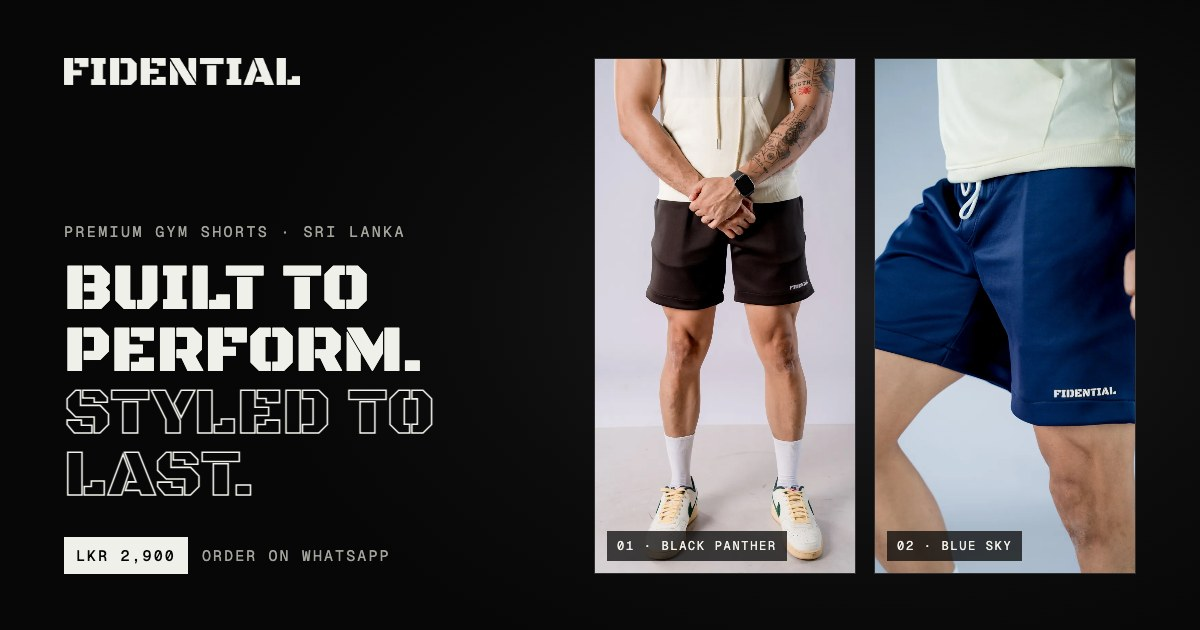
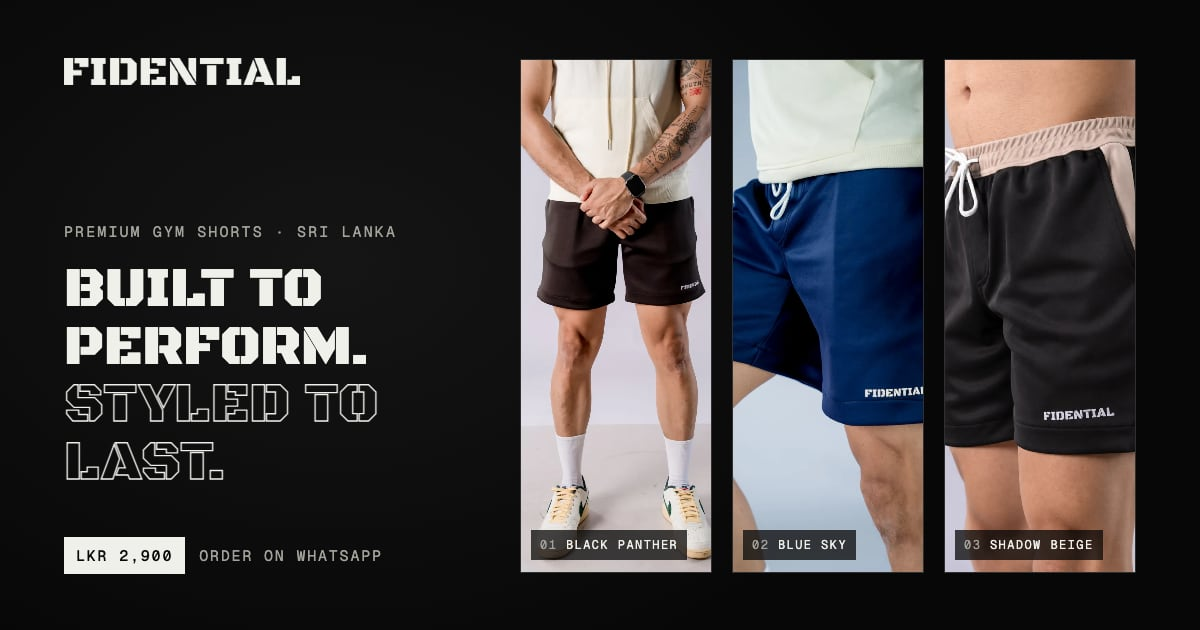
5th changes

diff --git a/index.html b/index.html
@@ -4,7 +4,7 @@
 <meta charset="utf-8">
 <meta name="viewport" content="width=device-width, initial-scale=1, viewport-fit=cover">
 <title>FIDENTIAL | Premium Gym Shorts &amp; Activewear in Sri Lanka</title>
-<meta name="description" content="Premium Scuba-fabric gym shorts by FIDENTIAL, a Sri Lankan activewear brand. Black Panther and Blue Sky, sizes S–L, LKR 2,900. Order on WhatsApp in minutes.">
+<meta name="description" content="Premium Scuba-fabric gym shorts by FIDENTIAL, Sri Lanka. Black Panther, Blue Sky and Shadow Beige, sizes S–L, LKR 2,900. Order on WhatsApp in minutes.">
 <link rel="canonical" href="https://fidential.shop/">
 <meta name="robots" content="index, follow, max-image-preview:large">
 <meta name="theme-color" content="#070707">
@@ -14,11 +14,11 @@
 <meta property="og:site_name" content="FIDENTIAL">
 <meta property="og:url" content="https://fidential.shop/">
 <meta property="og:title" content="FIDENTIAL | Premium Gym Shorts in Sri Lanka">
-<meta property="og:description" content="Scuba-fabric gym shorts built to perform and styled to last. Black Panther and Blue Sky, LKR 2,900. Order on WhatsApp.">
+<meta property="og:description" content="Scuba-fabric gym shorts built to perform and styled to last. Black Panther, Blue Sky and Shadow Beige, LKR 2,900. Order on WhatsApp.">
 <meta property="og:image" content="https://fidential.shop/img/og.jpg">
 <meta property="og:image:width" content="1200">
 <meta property="og:image:height" content="630">
-<meta property="og:image:alt" content="FIDENTIAL gym shorts in Black Panther and Blue Sky">
+<meta property="og:image:alt" content="FIDENTIAL gym shorts in Black Panther, Blue Sky and Shadow Beige">
 <meta name="twitter:card" content="summary_large_image">
 <link rel="icon" href="favicon.ico" sizes="32x32">
 <link rel="icon" href="favicon.svg" type="image/svg+xml">
@@ -28,7 +28,7 @@
 <link rel="preload" href="fonts/black-ops-one-v21-latin.woff2" as="font" type="font/woff2" crossorigin>
 <link rel="preload" href="fonts/archivo-v25-latin.woff2" as="font" type="font/woff2" crossorigin>
 <!-- the 3D library and hang-tag photos are fetched by the script once the loader has painted -->
-<!-- search engines: the brand, the site and both pairs. Keep price and stock in step with STORE below. Review stars are added from STORE.reviews.published -->
+<!-- search engines: the brand, the site and every pair. Keep price and stock in step with STORE below. Review stars are added from STORE.reviews.published -->
 <script type="application/ld+json" id="ld">
 {
   "@context": "https://schema.org",
@@ -89,6 +89,28 @@
       "material": "Scuba fabric",
       "category": "Gym shorts",
       "image": ["https://fidential.shop/img/bs_1.webp", "https://fidential.shop/img/bs_2.webp", "https://fidential.shop/img/bs_3.webp"],
+      "url": "https://fidential.shop/#shop",
+      "offers": {
+        "@type": "Offer",
+        "url": "https://fidential.shop/#shop",
+        "price": "2900",
+        "priceCurrency": "LKR",
+        "availability": "https://schema.org/InStock",
+        "itemCondition": "https://schema.org/NewCondition",
+        "seller": { "@id": "https://fidential.shop/#org" }
+      }
+    },
+    {
+      "@type": "Product",
+      "@id": "https://fidential.shop/#shadow-beige",
+      "name": "FIDENTIAL Shadow Beige Gym Shorts",
+      "description": "Black gym shorts with a beige waistband and side panels, a contemporary two-colour design for the gym and every day. Premium Scuba fabric, an elastic waistband and an adjustable drawstring. Sizes S, M and L.",
+      "sku": "FDN-03-BLACK-BEIGE",
+      "brand": { "@type": "Brand", "name": "FIDENTIAL" },
+      "color": "Black/Beige",
+      "material": "Scuba fabric",
+      "category": "Gym shorts",
+      "image": ["https://fidential.shop/img/sb_1.webp", "https://fidential.shop/img/sb_2.webp", "https://fidential.shop/img/sb_3.webp"],
       "url": "https://fidential.shop/#shop",
       "offers": {
         "@type": "Offer",
@@ -270,8 +292,9 @@ main:focus{outline:none}
 .hero-sub{color:var(--mute);max-width:36ch;margin:0}
 .hero-ctas{display:flex;gap:22px;align-items:center;flex-wrap:wrap}
 .buybox{grid-column:3;justify-self:end;width:min(340px,100%);display:grid;gap:14px}
-.cw{display:flex;gap:8px}
-.cw button{flex:1;display:flex;align-items:center;justify-content:center;gap:9px;height:42px;padding:0 12px;border:1px solid var(--line);font-family:var(--f-mono);font-size:11px;letter-spacing:.08em;text-transform:uppercase;color:var(--mute);transition:border-color .3s,color .3s,background .3s}
+/* one equal column per colourway; long names wrap onto a second line inside the same 42px button */
+.cw{display:grid;grid-auto-flow:column;grid-auto-columns:minmax(0,1fr);gap:8px}
+.cw button{display:flex;align-items:center;justify-content:center;gap:8px;min-height:42px;padding:6px 10px;border:1px solid var(--line);font-family:var(--f-mono);font-size:11px;line-height:1.25;letter-spacing:.08em;text-align:left;text-transform:uppercase;color:var(--mute);transition:border-color .3s,color .3s,background .3s}
 .cw button[aria-pressed="true"]{border-color:var(--chalk);color:var(--chalk);background:rgba(240,240,234,.05)}
 @media (hover:hover){.cw button:hover{color:var(--chalk)}}
 .bb-row{display:flex;justify-content:space-between;align-items:baseline;gap:12px;padding-top:6px}
@@ -293,23 +316,26 @@ main:focus{outline:none}
 .sec-title{display:grid;gap:18px}
 
 /* product cards */
-.cards{display:grid;grid-template-columns:repeat(2,minmax(0,1fr));gap:clamp(16px,2.4vw,32px)}
-.card{position:relative;display:grid;align-content:start}
+.cards{display:grid;grid-template-columns:repeat(3,minmax(0,1fr));gap:clamp(14px,2vw,28px)}
+/* each card sizes its own type and chips from its width (see the @container rules below), so three across fit any screen */
+.card{position:relative;display:grid;grid-template-rows:auto 1fr;container-type:inline-size}
 .card-media{position:relative;display:block;width:100%;aspect-ratio:4/5;overflow:hidden;background:#111}
 .card-media img{position:absolute;inset:0;width:100%;height:100%;object-fit:cover;transition:opacity .7s var(--ease),transform 1.2s var(--ease)}
 .card-media .cm-b{opacity:0}
 @media (hover:hover){.card-media:hover .cm-a{opacity:0}.card-media:hover .cm-b{opacity:1}.card-media:hover img{transform:scale(1.035)}}
-.card-tag{position:absolute;left:14px;top:14px;font-family:var(--f-mono);font-size:11px;letter-spacing:.14em;text-transform:uppercase;padding:6px 9px;background:rgba(7,7,7,.66);backdrop-filter:blur(8px);-webkit-backdrop-filter:blur(8px)}
-.card-body{padding:20px 0 0;display:grid;gap:14px}
+.card-tag{position:absolute;left:14px;top:14px;display:inline-flex;align-items:center;gap:9px;font-family:var(--f-mono);font-size:11px;letter-spacing:.14em;text-transform:uppercase;padding:6px 9px;background:rgba(7,7,7,.66);backdrop-filter:blur(8px);-webkit-backdrop-filter:blur(8px)}
+.card-tag b{margin:-2px -5px -2px 0;padding:2px 5px;background:var(--chalk);color:var(--ink);font-weight:500;letter-spacing:.12em}
+.card-body{padding:20px 0 0;display:flex;flex-direction:column;gap:14px}
 .card-top{display:flex;justify-content:space-between;align-items:baseline;gap:12px}
-.card-name{font-family:var(--f-display);font-weight:400;font-size:clamp(26px,2.6vw,40px);line-height:.95;text-transform:uppercase;margin:0}
+.card-name{font-family:var(--f-display);font-weight:400;font-size:clamp(24px,2.2vw,34px);line-height:.95;text-transform:uppercase;margin:0}
+@supports (font-size:1cqi){.card-name{font-size:clamp(24px,7.6cqi,40px)}}
 .card-price{font-family:var(--f-mono);font-size:15px;margin:0;white-space:nowrap;color:var(--mute)}
 .card-desc{color:var(--mute);margin:0;max-width:46ch}
 .card-rate{display:inline-flex;align-items:center;gap:10px;width:max-content;font-family:var(--f-mono);font-size:11px;letter-spacing:.1em;text-transform:uppercase;color:var(--mute);text-decoration:none;transition:color .3s}
 .card-rate:hover{color:var(--chalk)}
 .card-rate .stars{--s:13px}
 .pm-rate{margin:0}
-.card-quick{display:flex;align-items:center;gap:12px 16px;flex-wrap:wrap;padding-top:14px;border-top:1px solid var(--line)}
+.card-quick{margin-top:auto;display:flex;align-items:center;gap:12px 16px;flex-wrap:wrap;padding-top:14px;border-top:1px solid var(--line)}
 .card-quick .link-btn{margin-left:auto}
 .ql{font-family:var(--f-mono);font-size:11px;letter-spacing:.14em;text-transform:uppercase;color:var(--mute)}
 
@@ -794,6 +820,26 @@ main:focus{outline:none}
   .card-sale{right:10px;top:10px}
 }
 
+/* three pairs: layouts that follow the room a card, offer or picker gets, not the screen */
+@container (max-width:400px){.card-sale{left:14px;right:auto;top:49px}}
+@container (max-width:330px){
+  .card-top,.card-top:has(.was){flex-direction:column;align-items:flex-start;gap:8px}
+  .card-price .was{display:inline;margin-right:6px}
+  .card-quick .ql{display:none}
+}
+/* the pair builder puts the sizes under the colours when its offer card is narrow */
+@container (max-width:340px){.pair-row{grid-template-columns:auto minmax(0,1fr);row-gap:10px}.pair-row .sizes{grid-column:2}}
+.rv-pane{container-type:inline-size}
+.rv-picks{grid-template-columns:repeat(3,minmax(0,1fr))}
+/* each option needs about 210px, so three across only from 660px */
+@container (max-width:660px){.rv-picks{grid-template-columns:minmax(0,1fr)}}
+.fab-toggle{flex-wrap:wrap}
+@media (max-width:640px){
+  .fab-toggle{display:grid;grid-auto-flow:column;grid-auto-columns:minmax(0,1fr);width:100%}
+  .fab-toggle button{justify-content:center;height:auto;min-height:42px;padding:6px 10px;line-height:1.25;text-align:left}
+}
+@media (max-width:380px){.cw button,.fab-toggle button{gap:7px;padding:6px 8px;letter-spacing:.04em}}
+
 /* responsive */
 @media (max-width:1100px){
   .steps{grid-template-columns:repeat(2,minmax(0,1fr))}
@@ -950,6 +996,7 @@ main:focus{outline:none}
         <div class="cw" role="group" aria-label="Colourway">
           <button type="button" aria-pressed="true" data-p="black-panther"><i class="sw" style="--sw:#161616"></i>Black Panther</button>
           <button type="button" aria-pressed="false" data-p="blue-sky"><i class="sw" style="--sw:#24368e"></i>Blue Sky</button>
+          <button type="button" aria-pressed="false" data-p="shadow-beige"><i class="sw" style="--sw:linear-gradient(135deg,#161616 50%,#d2b8a2 50%)"></i>Shadow Beige</button>
         </div>
         <div class="bb-row"><p class="bb-name" id="bbName">Black Panther</p><p class="bb-price" id="bbPrice">LKR 2,900</p></div>
         <a class="deal-line" href="#sale" data-deal="line" data-when="teaser live" hidden></a>
@@ -1026,7 +1073,7 @@ main:focus{outline:none}
       <div class="sec-head row" data-reveal>
         <div class="sec-title">
           <p class="eyebrow">The collection</p>
-          <h2 class="h2" id="shopTitle">Two colourways.<br>One standard.</h2>
+          <h2 class="h2" id="shopTitle">Three colourways.<br>One standard.</h2>
         </div>
         <p class="lede">Every pair of FIDENTIAL gym shorts is cut from premium Scuba fabric, with an elastic waistband and an adjustable drawstring. Tap a size to add it straight to your cart.</p>
       </div>
@@ -1044,6 +1091,7 @@ main:focus{outline:none}
         <div class="fab-toggle" role="group" aria-label="Fabric colour">
           <button type="button" aria-pressed="true" data-c="black-panther"><i class="sw" style="--sw:#161616"></i>Black Panther</button>
           <button type="button" aria-pressed="false" data-c="blue-sky"><i class="sw" style="--sw:#24368e"></i>Blue Sky</button>
+          <button type="button" aria-pressed="false" data-c="shadow-beige"><i class="sw" style="--sw:linear-gradient(135deg,#161616 50%,#d2b8a2 50%)"></i>Shadow Beige</button>
         </div>
         <ul class="specs">
           <li><span class="k">Fabric</span><span class="v">Premium Scuba</span></li>
@@ -1129,7 +1177,7 @@ main:focus{outline:none}
         <h2 class="h2" id="howTitle">Checkout is one<br>WhatsApp message.</h2>
       </div>
       <ol class="steps" data-reveal>
-        <li><h3>Pick your pair</h3><p>Choose Black Panther or Blue Sky and your size.</p></li>
+        <li><h3>Pick your pair</h3><p>Choose Black Panther, Blue Sky or Shadow Beige and your size.</p></li>
         <li><h3>Add to cart</h3><p>Mix colours and sizes. Change quantities any time.</p></li>
         <li><h3>Check out</h3><p>Add your delivery details now, or share them in the chat.</p></li>
         <li><h3>Send on WhatsApp</h3><p>Your order is written for you. We reply to confirm delivery and payment.</p></li>
@@ -1290,10 +1338,11 @@ main:focus{outline:none}
 
   <section class="final">
     <div class="wrap">
-      <h2 data-reveal>Black Panther<br><span class="o">or Blue Sky?</span></h2>
+      <h2 data-reveal>Which pair<br><span class="o">is yours?</span></h2>
       <div class="final-ctas">
         <button class="btn btn-solid" type="button" data-open="black-panther">Shop Black Panther</button>
         <button class="btn" type="button" data-open="blue-sky">Shop Blue Sky</button>
+        <button class="btn" type="button" data-open="shadow-beige">Shop Shadow Beige</button>
       </div>
     </div>
   </section>
@@ -1315,6 +1364,7 @@ main:focus{outline:none}
         <p class="mono">Shop</p>
         <a href="#shop" data-open="black-panther">Black Panther</a>
         <a href="#shop" data-open="blue-sky">Blue Sky</a>
+        <a href="#shop" data-open="shadow-beige">Shadow Beige</a>
         <a href="#fit">Size guide</a>
       </div>
       <div>
@@ -1477,6 +1527,15 @@ main:focus{outline:none}
         images: ["img/bs_1.webp", "img/bs_2.webp", "img/bs_3.webp"],
         hero: "img/bs_hero.webp", depth: "img/bs_depth.webp",
         stock: { S: 7, M: 1, L: 1 }
+      },
+      "shadow-beige": {
+        // "trim" is the second colour of a two-tone pair (beige waistband and side panels); "badge" adds a small label to its card
+        name: "Shadow Beige", idx: "03", colour: "Black/Beige", swatch: "#161616", trim: "#d2b8a2", price: 2900, badge: "New",
+        desc: "Black with a beige waistband and side panels, a contemporary two-colour design for the gym and every day. Premium Scuba fabric, an elastic waistband and an adjustable drawstring.",
+        short: "Black with beige panels, a contemporary two-colour design.",
+        images: ["img/sb_1.webp", "img/sb_2.webp", "img/sb_3.webp"],
+        hero: "img/sb_hero.webp", depth: "img/sb_depth.webp",
+        stock: { S: 0, M: 19, L: 12 }    // size S not confirmed yet, so it shows as sold out
       }
     },
     sizes: { S: { waist: "28–30", length: "15" }, M: { waist: "32–34", length: "16" }, L: { waist: "36–38", length: "16.5" } },
@@ -1506,6 +1565,8 @@ main:focus{outline:none}
   const P = STORE.products;
   const IDS = Object.keys(P);
   const SIZES = Object.keys(STORE.sizes);
+  // colour dot: two-tone pairs get a split dot
+  const swatchOf = id => P[id].trim ? `linear-gradient(135deg,${P[id].swatch} 50%,${P[id].trim} 50%)` : P[id].swatch;
   const plural = n => `${n} item${n === 1 ? "" : "s"}`;
   const shake = el => { el.classList.remove("shake"); void el.offsetWidth; el.classList.add("shake"); };
   const esc = t => String(t).replace(/[&<>"']/g, c => ({ "&": "&amp;", "<": "&lt;", ">": "&gt;", '"': "&quot;", "'": "&#39;" })[c]);
@@ -1664,7 +1725,7 @@ main:focus{outline:none}
       <button class="card-media" type="button" aria-label="View ${p.name} details" data-cursor="View">
         <img class="cm-a" src="${p.images[0]}" alt="FIDENTIAL ${p.name} gym shorts in ${p.colour.toLowerCase()}" width="1000" height="1500" loading="lazy" decoding="async">
         <img class="cm-b" src="${p.images[1] || p.images[0]}" alt="" width="1000" height="1500" loading="lazy" decoding="async">
-        <span class="card-tag">${p.idx} · ${p.colour}</span>
+        <span class="card-tag">${p.idx} · ${p.colour}${p.badge ? `<b>${esc(p.badge)}</b>` : ""}</span>
         <span class="card-sale" data-when="teaser live"><i class="sale-dot"></i><span data-deal="card"></span></span>
       </button>
       <div class="card-body">
@@ -2272,7 +2333,7 @@ main:focus{outline:none}
     // options that come from the store
     $("#rvPicks").innerHTML = IDS.map(id => {
       const p = P[id];
-      return `<label class="rv-pick"><input type="radio" name="product" value="${id}"><span><img src="${p.images[0]}" alt="" width="48" height="60" loading="lazy" decoding="async"><span><b>${p.name}</b><small><i class="sw" style="--sw:${p.swatch}"></i>${p.colour}</small></span><i class="rv-tick">${TICK}</i></span></label>`;
+      return `<label class="rv-pick"><input type="radio" name="product" value="${id}"><span><img src="${p.images[0]}" alt="" width="48" height="60" loading="lazy" decoding="async"><span><b>${p.name}</b><small><i class="sw" style="--sw:${swatchOf(id)}"></i>${p.colour}</small></span><i class="rv-tick">${TICK}</i></span></label>`;
     }).join("");
     $("#rvSizes").innerHTML = SIZES.map(sz => `<label class="rv-opt"><input type="radio" name="size" value="${sz}" aria-label="Size ${sz}, waist ${STORE.sizes[sz].waist} inches"><span class="size">${sz}<small>${STORE.sizes[sz].waist}"</small></span></label>`).join("");
 
@@ -2594,7 +2655,7 @@ main:focus{outline:none}
       }).join("");
       const fits = FITS.map(f => pool.filter(r => r.fit === f).length), fn = fits.reduce((a, b) => a + b, 0), top = fits.indexOf(Math.max(...fits));
       $("#rvFitSum").innerHTML = fn ? `<span class="mono">Fit, from ${fn} review${fn === 1 ? "" : "s"}</span><b>${FITS[top]}</b><div class="rv-fitline">${["Small", "True", "Big"].map((l, i) => `<span class="${i === top ? "on" : ""}">${l} ${Math.round(fits[i] / fn * 100)}%</span>`).join("")}</div>` : "";
-      $("#rvFilter").innerHTML = [["all", "All pairs"], ...IDS.map(id => [id, P[id].name])].map(([k, l]) => `<button type="button" data-f="${k}" aria-pressed="${k === filt}">${P[k] ? `<i class="sw" style="--sw:${P[k].swatch}"></i>` : ""}${l}</button>`).join("");
+      $("#rvFilter").innerHTML = [["all", "All pairs"], ...IDS.map(id => [id, P[id].name])].map(([k, l]) => `<button type="button" data-f="${k}" aria-pressed="${k === filt}">${P[k] ? `<i class="sw" style="--sw:${swatchOf(k)}"></i>` : ""}${l}</button>`).join("");
       const list = pool.filter(r => !starF || r.rating === starF);
       $("#rvList").innerHTML = list.slice(0, shown).map(item).join("");
       $("#rvMore").hidden = list.length <= shown;
@@ -2705,7 +2766,7 @@ main:focus{outline:none}
     const sel = [{ id: IDS[0], size: null }, { id: IDS[1] || IDS[0], size: null }];
     function renderPair(focus) {
       rows.forEach((row, k) => {
-        $(".pair-cols", row).innerHTML = IDS.map(id => `<button type="button" style="--sw:${P[id].swatch}" data-id="${id}" aria-pressed="${sel[k].id === id}" aria-label="${P[id].name}" title="${P[id].name}"></button>`).join("");
+        $(".pair-cols", row).innerHTML = IDS.map(id => `<button type="button" style="--sw:${swatchOf(id)}" data-id="${id}" aria-pressed="${sel[k].id === id}" aria-label="${P[id].name}" title="${P[id].name}"></button>`).join("");
         renderSizes($(".sizes", row), sel[k].id, sel[k].size, sz => { sel[k].size = sz; note.textContent = ""; renderPair([k, "size"]); }, false);
       });
       if (focus) { const row = rows[focus[0]], el = focus[1] === "size" ? $('.size[aria-checked="true"]', row) : $('.pair-cols [aria-pressed="true"]', row); if (el) el.focus({ preventScroll: true }); }
@@ -3186,7 +3247,7 @@ function hero() {
     // the photos download while the fonts and logo for the printed artwork load
     return building[id] = Promise.all([loadTex(p.hero, true), loadTex(p.depth), fontsReady, logoReady]).then(([photo, depth, , logo]) => {
       const [pc, ac] = drawSet(id, logo);
-      const hex = parseInt(p.swatch.slice(1), 16), sw = [hex >> 16, hex >> 8 & 255, hex & 255].map(v => 1 - (1 - v / 255) * .08);
+      const hex = parseInt((p.trim || p.swatch).slice(1), 16), sw = [hex >> 16, hex >> 8 & 255, hex & 255].map(v => 1 - (1 - v / 255) * .08);
       return sets[id] = { photo, depth, print: canvasTex(pc), aux: canvasTex(ac), tint: sw };
     });
   }
@@ -3356,12 +3417,15 @@ function cloth(host) {
   const scene = new THREE.Scene();
   const cam = new THREE.PerspectiveCamera(30, 1, .1, 100);
   cam.position.set(0, 0, 8);
-  const COLORS = { "black-panther": new THREE.Color(.13, .125, .12), "blue-sky": new THREE.Color(.07, .11, .36) };
+  const COLORS = { "black-panther": new THREE.Color(.13, .125, .12), "blue-sky": new THREE.Color(.07, .11, .36), "shadow-beige": new THREE.Color(.13, .125, .12) };
+  const TRIMS = { "shadow-beige": new THREE.Color(.45, .395, .35) };   // two-tone pairs: the waistband colour
   const logo = new THREE.TextureLoader().load("img/logo_white.png");
   logo.anisotropy = 8;
   const PW = 3.8, PH = 2.65;
+  const first = window.__fdnCloth || "black-panther";
   const uni = {
-    uTime: { value: 0 }, uColor: { value: COLORS[window.__fdnCloth || "black-panther"].clone() },
+    uTime: { value: 0 }, uColor: { value: COLORS[first].clone() },
+    uTrim: { value: (TRIMS[first] || TRIMS["shadow-beige"]).clone() }, uTrimAmt: { value: TRIMS[first] ? 1 : 0 },
     uPointer: { value: new THREE.Vector2(99, 99) }, uPower: { value: 0 }, uLogo: { value: logo },
     uSize: { value: new THREE.Vector2(PW, PH) }
   };
@@ -3396,7 +3460,7 @@ function cloth(host) {
         gl_Position = projectionMatrix * mv;
       }`,
     fragmentShader: `
-      uniform vec3 uColor; uniform sampler2D uLogo; uniform vec2 uSize;
+      uniform vec3 uColor, uTrim; uniform float uTrimAmt; uniform sampler2D uLogo; uniform vec2 uSize;
       varying vec2 vUv; varying vec3 vN; varying vec3 vV;
       ${NOISE}
       void main(){
@@ -3416,6 +3480,15 @@ function cloth(host) {
         col = mix(col, vec3(0.62)*(0.4 + 0.7*d1), (l1 + l2) * st * 0.7);
         float fold = 1.0 - smoothstep(0.0, 0.006, abs(vUv.y - 0.11));
         col *= 1.0 - fold*0.35;
+        // two-tone pairs: a ribbed waistband across the top, joined by a stitched seam
+        if (uTrimAmt > 0.001) {
+          float band = smoothstep(0.858, 0.862, vUv.y) * uTrimAmt;
+          vec3 tb = uTrim * (0.9 + 0.2*grain) * (0.955 + 0.045*sin(vUv.x*uSize.x*70.0));
+          col = mix(col, tb * (0.08 + 1.5*d1 + 0.45*d2) + vec3(1.0)*(sheen*0.2 + spec*0.22), band);
+          col *= 1.0 - (1.0 - smoothstep(0.0, 0.003, abs(vUv.y - 0.86))) * 0.45 * uTrimAmt;
+          float l3 = 1.0 - smoothstep(0.0, 0.0022, abs(vUv.y - 0.842));
+          col = mix(col, vec3(0.62)*(0.4 + 0.7*d1), l3 * st * 0.7 * uTrimAmt);
+        }
         // wordmark near the hem, as on the shorts
         vec2 luv = (vUv - vec2(0.58, 0.15)) / vec2(0.32, 0.0545);
         float la = 0.0;
@@ -3471,8 +3544,15 @@ function cloth(host) {
     ry = nd.x * .22; rx = -nd.y * .12;
   });
 
-  let colTarget = uni.uColor.value.clone();
-  addEventListener("fdn:cloth", e => { if (COLORS[e.detail]) { colTarget = COLORS[e.detail].clone(); uni.uPower.value = 1; uni.uPointer.value.set(0, 0); if (reduce) frame(); } });
+  let colTarget = uni.uColor.value.clone(), trimTarget = uni.uTrimAmt.value;
+  addEventListener("fdn:cloth", e => {
+    if (!COLORS[e.detail]) return;
+    colTarget = COLORS[e.detail].clone();
+    trimTarget = TRIMS[e.detail] ? 1 : 0;
+    if (TRIMS[e.detail]) uni.uTrim.value.copy(TRIMS[e.detail]);
+    uni.uPower.value = 1; uni.uPointer.value.set(0, 0);
+    if (reduce) frame();
+  });
 
   let on = false, raf = 0;
   const clock = new THREE.Clock();
@@ -3482,6 +3562,7 @@ function cloth(host) {
     uni.uTime.value = t;
     uni.uPower.value *= .975;
     uni.uColor.value.lerp(colTarget, reduce ? 1 : .06);
+    uni.uTrimAmt.value += (trimTarget - uni.uTrimAmt.value) * (reduce ? 1 : .06);
     mesh.rotation.y += (.36 + ry + Math.sin(t * .4) * .06 - mesh.rotation.y) * .04;
     mesh.rotation.x += (-.3 + rx - mesh.rotation.x) * .04;
     mesh.position.y = Math.sin(t * .7) * .05;

diff --git a/README.md b/README.md
@@ -56,7 +56,7 @@ Only publish real reviews from customers who chose "Public review". You can fix 
 Instagram (`@fidential_official`) and Facebook appear in the footer, the mobile menu and the thank-you screen after a review, and in the search-engine data at the top of `index.html`. To change a link, search `index.html` for `instagram.com/fidential_official` or `facebook.com/profile.php` and replace every match.
 
 ## The hero hang tag
-The hero is a 3D clothing hang tag hanging from a cord. Visitors drag (or swipe) to spin it, tap to flip it over, and the colourway buttons spin it round to the other pair. The front shows the `*_hero.webp` cutout inside a window, with the depth map giving it real depth as the tag tilts. The back is a spec sheet.
+The hero is a 3D clothing hang tag hanging from a cord. Visitors drag (or swipe) to spin it, tap to flip it over, and the colourway buttons spin it round to another pair. The front shows the `*_hero.webp` cutout inside a window, with the depth map giving it real depth as the tag tilts. The back is a spec sheet.
 
 Everything printed on the tag (name, colour, price, sizes, waist ranges) is drawn from the `STORE` block, so it stays in sync when you edit prices or sizes. If a device can't run the 3D smoothly (no WebGL, or no graphics chip, so the 3D would run in software), the hero shows the cutout on a flat card instead.
 
@@ -68,7 +68,8 @@ const STORE = {
   whatsapp: "94779313890",   // WhatsApp number: country code + number, no "+" or spaces
   products: {
     "black-panther": { ..., price: 2900, stock: { S: 26, M: 5, L: 1 } },
-    "blue-sky":      { ..., price: 2900, stock: { S: 7,  M: 1, L: 1 } }
+    "blue-sky":      { ..., price: 2900, stock: { S: 7,  M: 1, L: 1 } },
+    "shadow-beige":  { ..., trim: "#d2b8a2", badge: "New", price: 2900, stock: { S: 0, M: 19, L: 12 } }
   },
   sizes: { ... },
   reviews: { formspree: "meaalldw", published: [ ... ] }
@@ -76,9 +77,12 @@ const STORE = {
 ```
 
 - **WhatsApp number**: change `whatsapp`. Also update the number in the footer (search for `+94 77 931 3890` and `wa.me/94779313890`) and the `telephone` in the search-engine data at the top of the file.
-- **Prices**: change `price`. The hero, cards, cart and WhatsApp message all read from it. A few places are plain text, so search for `2,900` and `2900` and update them too: the fabric spec list, the page description at the top, and the two `"price": "2900"` lines in the search-engine data.
-- **Stock**: change `stock`. Sizes at 0 show as sold out, 1 shows "Last one", and 5 or fewer show "Low stock". Customers can't add more than the stock number. If a whole pair sells out, also change its `"availability"` in the search-engine data to `"https://schema.org/OutOfStock"`.
-- **Photos**: replace files in `img/` with the same names (`bp_1.webp`… for Black Panther, `bs_1.webp`… for Blue Sky). Use WebP, about 1000 px wide and under 100 KB, so pages stay fast. The hang tag uses each product's `hero` and `depth` files: a new cutout needs a matching 2:3 depth map (white = nearest), also saved as WebP.
+- **Prices**: change `price`. The hero, cards, cart and WhatsApp message all read from it. A few places are plain text, so search for `2,900` and `2900` and update them too: the fabric spec list, the page description at the top, and the three `"price": "2900"` lines in the search-engine data.
+- **Stock**: change `stock`. Sizes at 0 show as sold out, 1 shows "Last one", and 5 or fewer show "Low stock". Customers can't add more than the stock number. If a whole pair sells out, also change its `"availability"` in the search-engine data to `"https://schema.org/OutOfStock"`. Shadow Beige size S is set to 0 until its stock is confirmed.
+- **Photos**: replace files in `img/` with the same names (`bp_1.webp`… for Black Panther, `bs_1.webp`… for Blue Sky, `sb_1.webp`… for Shadow Beige). The first photo is the card picture and the second shows on hover. Use WebP, about 1000 px wide and under 100 KB, so pages stay fast. The hang tag uses each product's `hero` and `depth` files: a new cutout needs a matching 2:3 depth map (white = nearest), also saved as WebP.
+- **"New" label**: `badge: "New"` puts a small label on the Shadow Beige card. Delete it when the pair is no longer new.
+- **Two-tone pairs**: `trim` is the second colour (Shadow Beige's beige waistband and side panels). It splits the colour dot, tints the hang tag, and adds the waistband to the fabric scene.
+- **Adding a pair**: add an entry to `products` with its photos in `img/`. The cards, gallery, cart, product window, pair builder and review form pick it up by themselves. A few places are written out by hand, so search for `shadow-beige` and copy each one: the hero colourway buttons, the fabric buttons and the fabric scene's `COLORS`, the closing "Which pair is yours?" buttons, the footer Shop links and the search-engine data. Also update the "Pick your pair" step, the page description, `sitemap.xml` and `img/og.jpg`, the link-preview picture.
 
 ## The 11.11 sale
 The sale is set in the `STORE` block:
@@ -107,7 +111,7 @@ Already in place:
 - A page title and description aimed at "gym shorts" and "activewear" in Sri Lanka.
 - A main heading that says what the site sells, descriptive image text, and a canonical address.
 - Link previews for WhatsApp, Instagram, Facebook and X, using `img/og.jpg`.
-- Search-engine data (schema.org) for the brand, its Instagram, Facebook and WhatsApp, and both pairs with price and stock. Review stars are added once reviews are published.
+- Search-engine data (schema.org) for the brand, its Instagram, Facebook and WhatsApp, and every pair with price and stock. Review stars are added once reviews are published.
 - `sitemap.xml`, `robots.txt`, favicons and app icons.
 
 After the site goes live:
